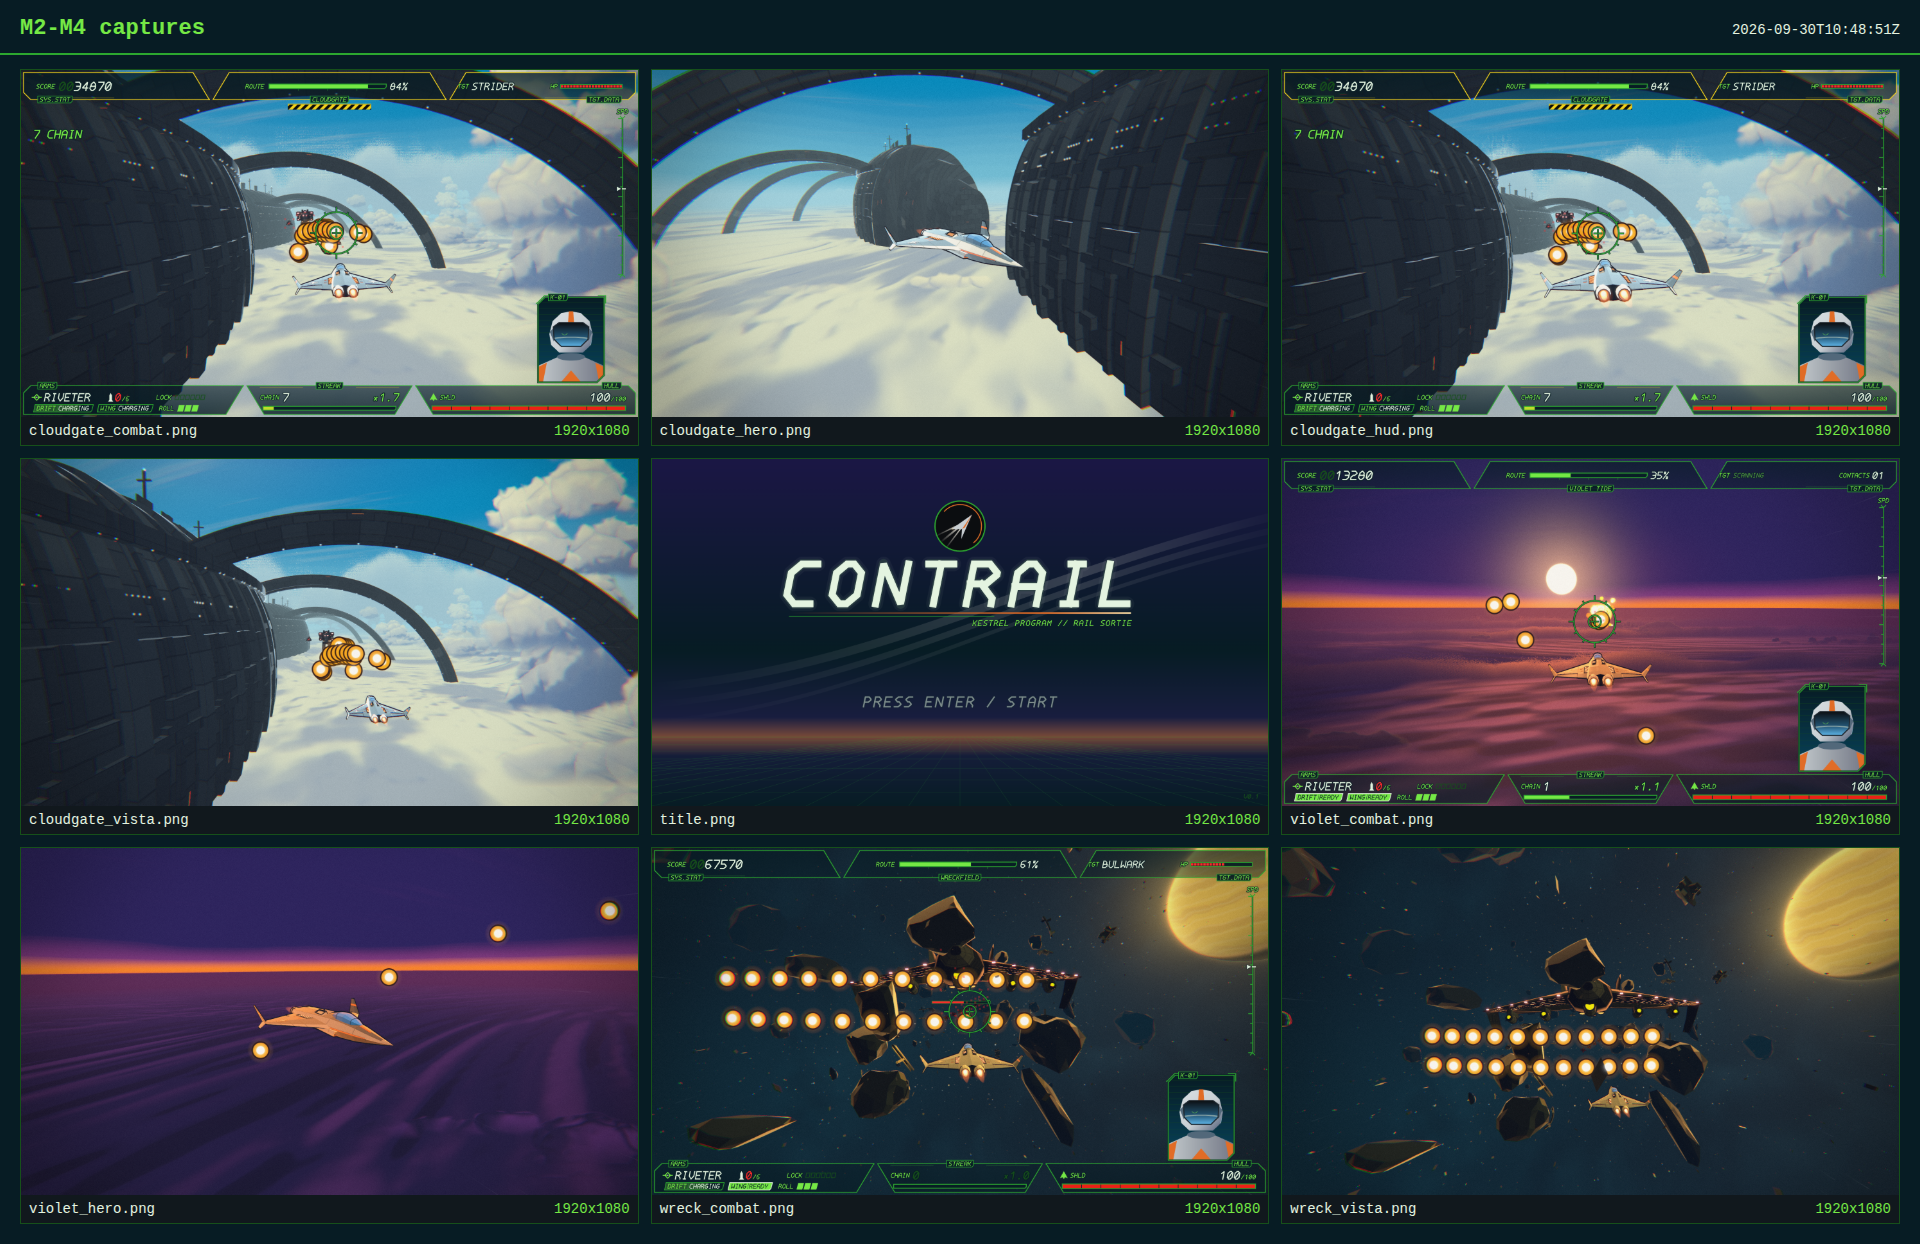
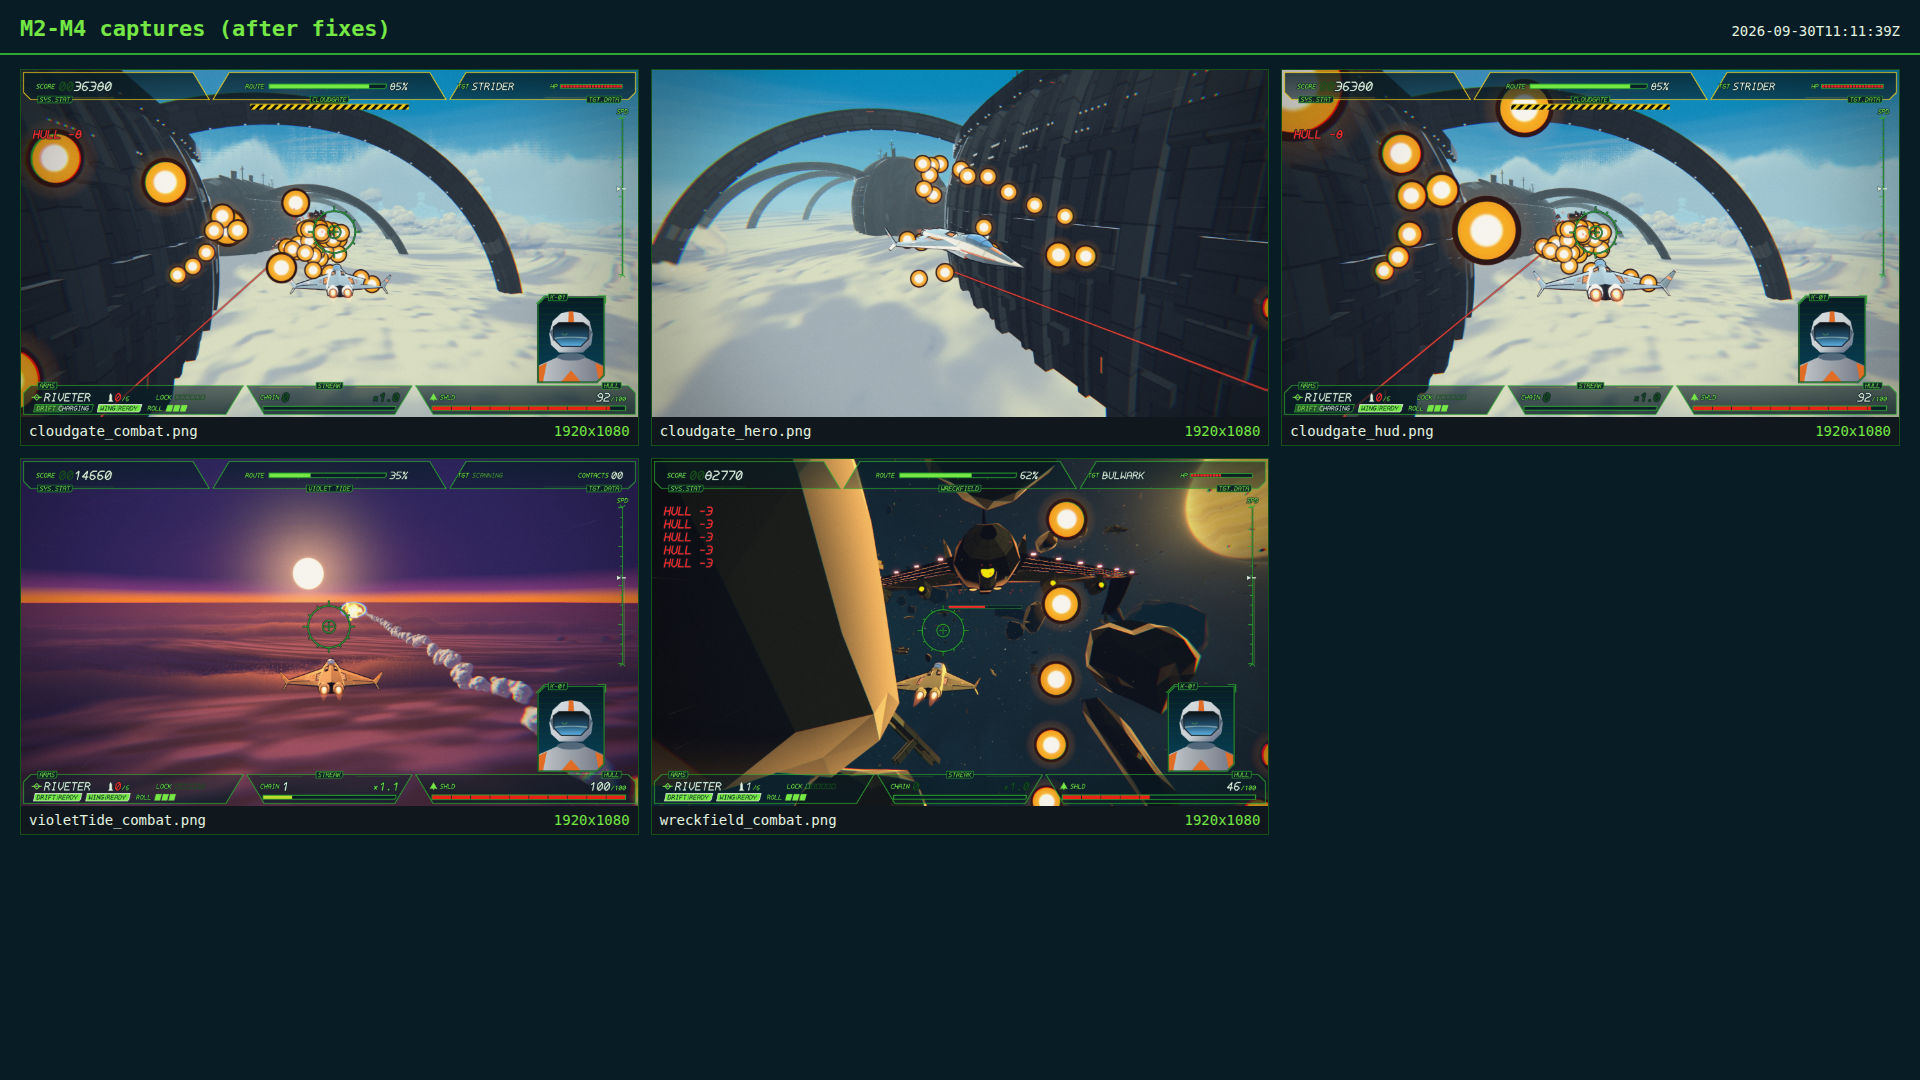
CONTRAIL: merge repeated hull-damage combat text; M2 recapture after fixes
Claude-Session: https://claude.ai/code/session_01Sb5vk8dPPmr8ekyxShV53k

diff --git a/contrail/src/game/game.ts b/contrail/src/game/game.ts
@@ -960,7 +960,10 @@ export class Game implements Combat {
     p.hitFlash = 1;
     this.cam.shake = Math.max(this.cam.shake, T.camera.shakeMax * 0.8);
     this.events.emit('playerHit', { damage: d, source, pos: scratchV.set(p.x, p.y, 0) });
-    this.combatText.push({ text: `HULL -${Math.round(d)}`, kind: 'hot', age: 0 });
+    // one live hull line: continuous damage (lasers) accumulates instead of stacking lines
+    const prev = this.combatText.find((c) => c.text.startsWith('HULL -') && c.age < 0.8);
+    if (prev) { prev.text = `HULL -${Math.round(Number(prev.text.slice(6)) + d)}`; prev.age = 0; }
+    else this.combatText.push({ text: `HULL -${Math.round(d)}`, kind: 'hot', age: 0 });
     if (p.shield <= 0) {
       p.shield = 0;
       p.alive = false;
